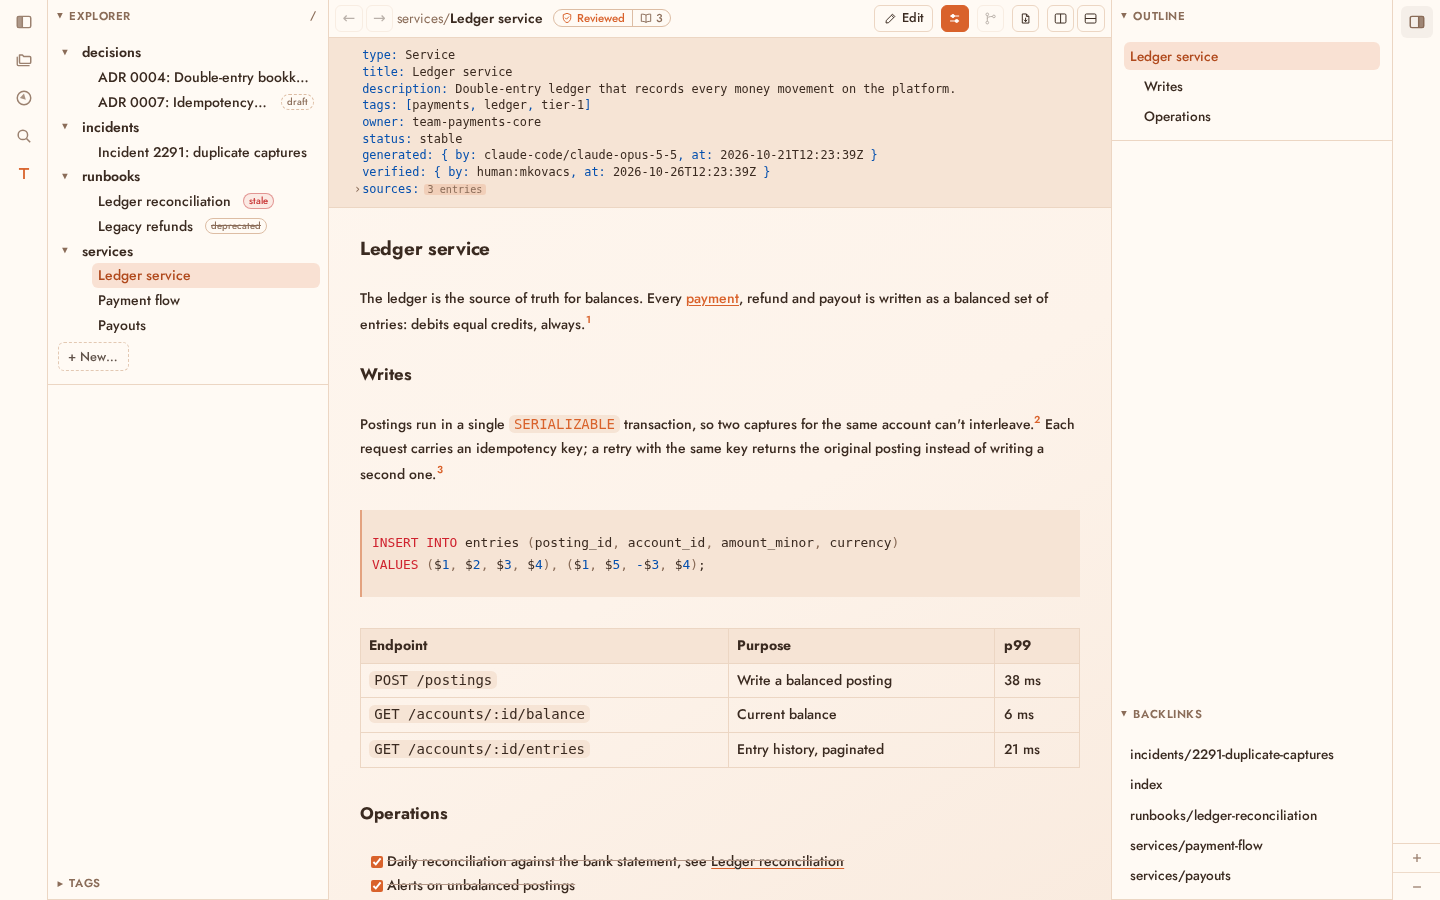
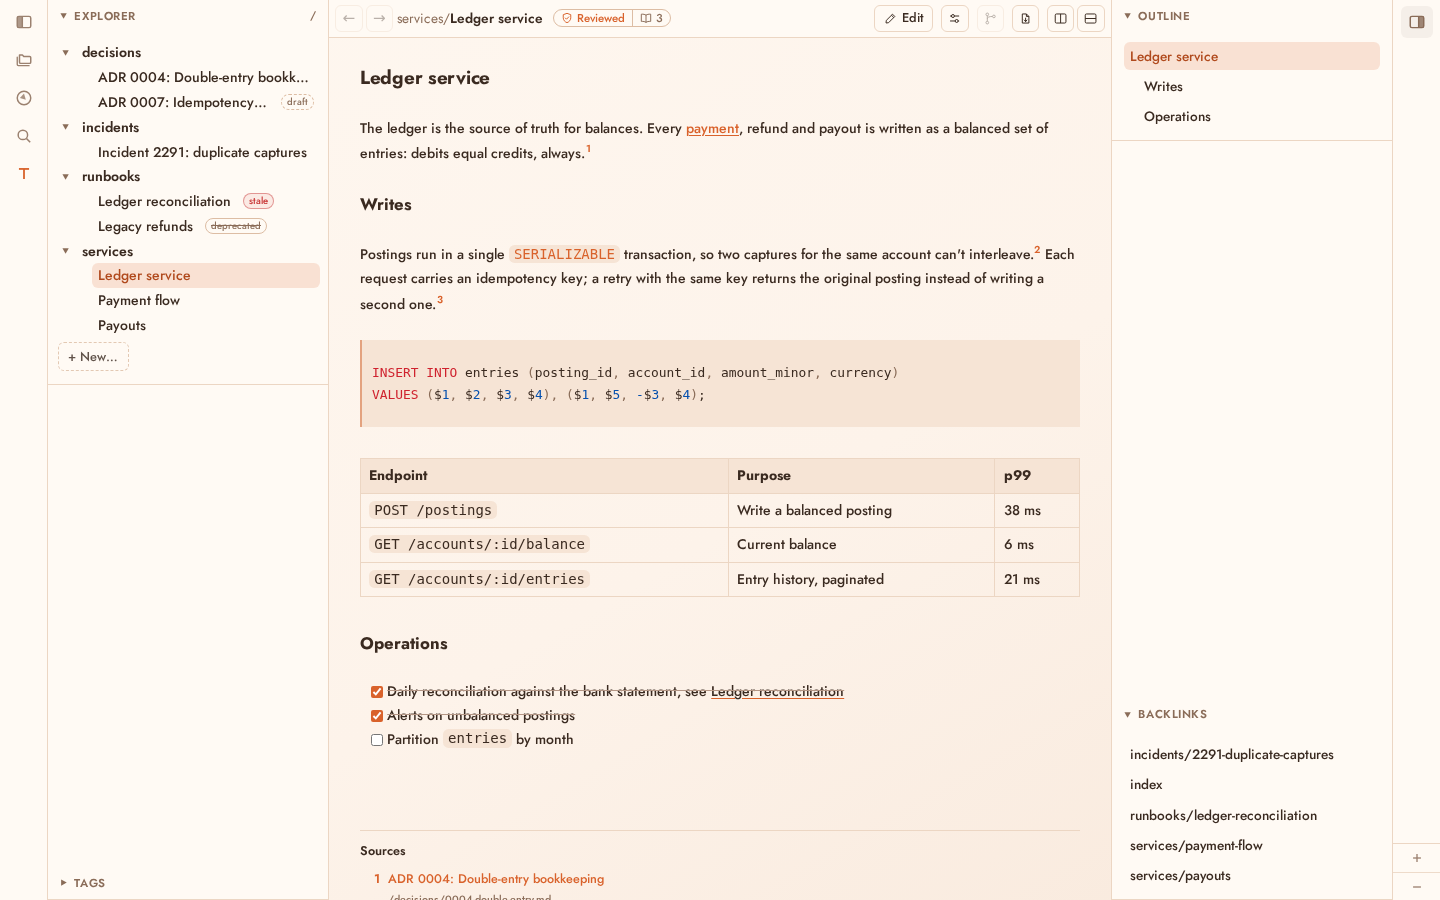
feat(marketing): show the frontmatter field grid
Read mode now renders frontmatter as a grid of fields (0fdd1e1), so the
landing page gets its own 'Frontmatter as fields' shot. The lint shot
switches to edit mode, where the YAML editor lives, and the hero no
longer opens the frontmatter, so the page content stays above the fold.

🤖 Generated with claude-code

diff --git a/tests/marketing-feature-shots.spec.ts b/tests/marketing-feature-shots.spec.ts
@@ -7,8 +7,8 @@ import { mkdirSync } from 'node:fs';
  * it swaps the fake backend's fixture Bundle for a small, realistic OKF Bundle
  * (a payments team's engineering wiki) and frames one feature per shot:
  *
- *  - hero:       the service Concept with both Sidebars, Properties and the
- *                trust pill on screen
+ *  - hero:       the service Concept with both Sidebars and the trust pill
+ *  - fields:     the frontmatter as a grid of fields (read mode)
  *  - okf:        the trust pill popover, and the Explorer marking a draft and a
  *                stale Concept
  *  - footnotes:  footnotes citing frontmatter `sources`, the Sources list and a
@@ -241,7 +241,6 @@ for (const scheme of ['light', 'dark'] as const) {
     test('hero', async ({ page }) => {
       await openDemo(page);
       await expect(page.getByTestId('app-root')).toHaveAttribute('data-theme', scheme);
-      await page.getByTestId('frontmatter-toggle').click();
       await showRightSidebar(page);
       await expect(page.getByTestId('meta-pill')).toBeVisible();
       await expect(page.getByTestId('right-side-bar')).toContainText('services/payment-flow');
@@ -290,6 +289,18 @@ for (const scheme of ['light', 'dark'] as const) {
       await page.screenshot({ path: `${ASSET_DIR}/footnotes-${scheme}.png`, clip: { x: 0, y: top, width: 1100, height: bottom - top } });
     });
 
+    test('fields', async ({ page }) => {
+      await openDemo(page);
+      await hideLeftSidebar(page);
+      await page.getByTestId('frontmatter-toggle').click();
+      // Read mode shows the frontmatter as a grid of fields.
+      const grid = page.getByTestId('properties');
+      await expect(grid).toBeVisible();
+      await page.waitForTimeout(300);
+      const box = (await grid.boundingBox())!;
+      await page.screenshot({ path: `${ASSET_DIR}/fields-${scheme}.png`, clip: { x: 0, y: 0, width: 1100, height: Math.min(640, box.y + box.height + 24) } });
+    });
+
     test('annotations', async ({ page }) => {
       const { tree, editor } = await openDemo(page);
       await tree.locator('[data-path="decisions/0007-idempotency-keys.md"]').click();
@@ -311,6 +322,8 @@ for (const scheme of ['light', 'dark'] as const) {
       await tree.locator('[data-path="incidents/2291-duplicate-captures.md"]').click();
       await hideLeftSidebar(page);
       await page.getByTestId('frontmatter-toggle').click();
+      // The YAML editor, and its lint, exist in editing mode only.
+      await page.getByTestId('edit-toggle').click();
       const region = page.getByTestId('frontmatter');
       await expect(region.locator('.cm-content')).toContainText('status: resolved');
       // OKF-aware checks: `status` is one of draft / stable / deprecated.

diff --git a/marketing/index.html b/marketing/index.html
@@ -310,7 +310,7 @@
   <figure class="shot">
     <a class="shot-light" href="assets/hero-light.png"><img src="assets/hero-light.png" alt="Sunstone editing a service page: Explorer, frontmatter, live preview with code and a table, Outline and Backlinks" /></a>
     <a class="shot-dark" href="assets/hero-dark.png"><img src="assets/hero-dark.png" alt="The same service page in dark mode" /></a>
-    <figcaption>A service page in an OKF bundle: Explorer with status badges, frontmatter, live preview, Outline and Backlinks.</figcaption>
+    <figcaption>A service page in an OKF bundle: Explorer with status badges, trust pill, live preview, Outline and Backlinks.</figcaption>
   </figure>
 </div>
 
@@ -338,12 +338,23 @@
       </div>
       <div class="row">
         <figure class="fig">
+          <a class="shot-light" href="assets/fields-light.png"><img src="assets/fields-light.png" alt="The frontmatter of a service page shown as a grid of fields: type, title, description, tags, owner, status, generated, verified and sources" /></a>
+          <a class="shot-dark" href="assets/fields-dark.png"><img src="assets/fields-dark.png" alt="The frontmatter field grid in dark mode" /></a>
+        </figure>
+        <div>
+          <h3>Frontmatter as fields</h3>
+          <p>In reading mode the frontmatter is a grid of fields, with tags and sources as lists. Sunstone Web shows the same grid.</p>
+          <p>Toggle it with the frontmatter button in the page header.</p>
+        </div>
+      </div>
+      <div class="row">
+        <figure class="fig">
           <a class="shot-light" href="assets/properties-light.png"><img src="assets/properties-light.png" alt="The frontmatter editor flags status: resolved with the message that status must be draft, stable or deprecated" /></a>
           <a class="shot-dark" href="assets/properties-dark.png"><img src="assets/properties-dark.png" alt="The frontmatter editor's OKF check in dark mode" /></a>
         </figure>
         <div>
           <h3>Frontmatter checked against the spec</h3>
-          <p>Frontmatter is edited as YAML, so what you see is what's in the file. Sunstone flags missing required fields and invalid values, and completes OKF keys as you type.</p>
+          <p>In edit mode the frontmatter is the YAML itself, so what you see is what's in the file. Sunstone flags missing required fields and invalid values, and completes OKF keys as you type.</p>
           <p>Outside an OKF bundle it only checks YAML syntax.</p>
         </div>
       </div>
